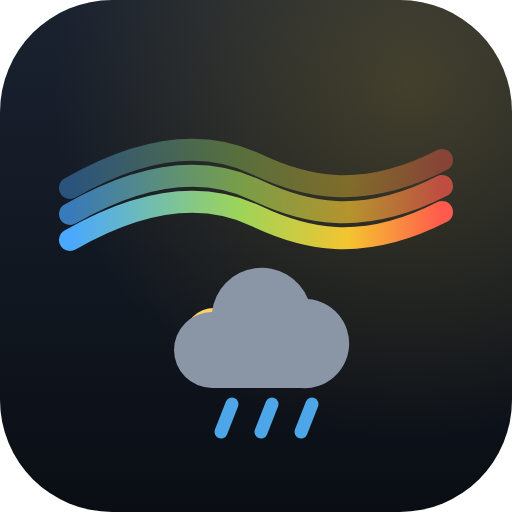
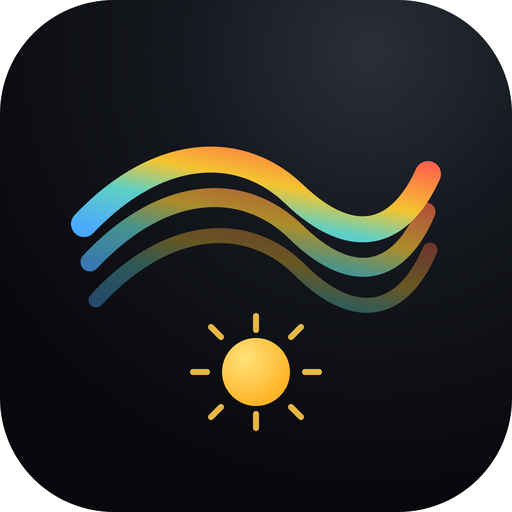
Add files via upload

diff --git a/index.html b/index.html
@@ -11,14 +11,14 @@
 <meta name="apple-mobile-web-app-capable" content="yes">
 <meta name="apple-mobile-web-app-status-bar-style" content="black-translucent">
 <meta name="apple-mobile-web-app-title" content="WEATH3R">
-<title>WEATH3R v8.3</title>
+<title>WEATH3R v8.4</title>
 <script>
 /* ============================================================
    WEATH3R · global config + UI-mode detection
    Runs synchronously in <head> BEFORE the body renders so the
    correct GUI is shown immediately (no layout flash).
    ============================================================ */
-window.APP_VERSION = "v8.3";
+window.APP_VERSION = "v8.4";
 
 function getUiMode(){
   var mode=null, explicit=false;
@@ -770,7 +770,7 @@ getUiMode();
     <b>Multi-Modell-Ansicht.</b> Drei unabhängige Wettermodelle laufen parallel — AROME (durchgezogen), ICON-D2 (gestrichelt), ECMWF (gepunktet). Liegen die Linien nah beieinander, ist die Prognose sicher; spreizen sie sich, ist sie unsicher. Farbe codiert die Wärme, das Linienmuster die Modell-Identität.<br>
     <span id="data-status"></span> Wetterdaten: <b>Open-Meteo.com</b> (CC BY 4.0). Regenradar &amp; Warnungen: <b>DWD</b> via Bright Sky.<br>
     <button class="ui-toggle" id="to-watch">⌚ Watch-Ansicht</button>
-    <span class="app-version" id="ver-desktop" style="margin-left:10px">WEATH3R v8.3</span>
+    <span class="app-version" id="ver-desktop" style="margin-left:10px">WEATH3R v8.4</span>
   </p>
 
 </div>
@@ -826,7 +826,7 @@ getUiMode();
     <span id="wstatus"></span><br>
     <button class="ui-toggle" id="to-desktop">↗ volle Ansicht</button><br>
     Daten: Open-Meteo · DWD (Bright Sky)<br>
-    <span class="app-version">WEATH3R v8.3</span>
+    <span class="app-version">WEATH3R v8.4</span>
   </p>
 </div><!-- /#watch-ui -->
 

diff --git a/sw.js b/sw.js
@@ -2,7 +2,7 @@
    - offline shell + last-data cache
    - immediate activation, then notifies open clients of updates
    ← bump CACHE on every deploy (matches APP_VERSION) */
-const CACHE = "weath3r-v8.3";
+const CACHE = "weath3r-v8.4";
 const ASSETS = [
   "./",
   "./index.html",